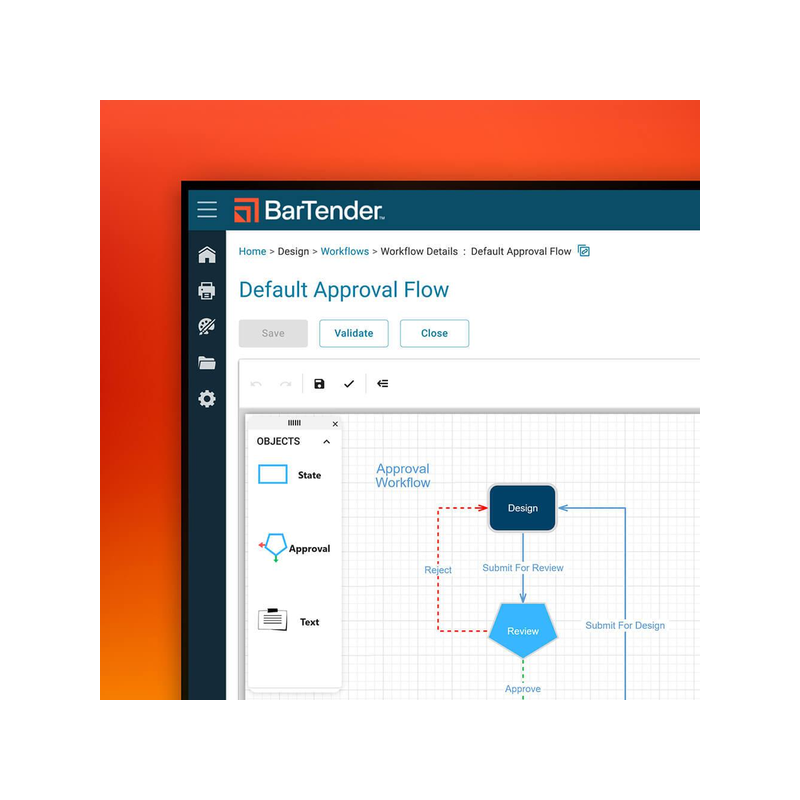
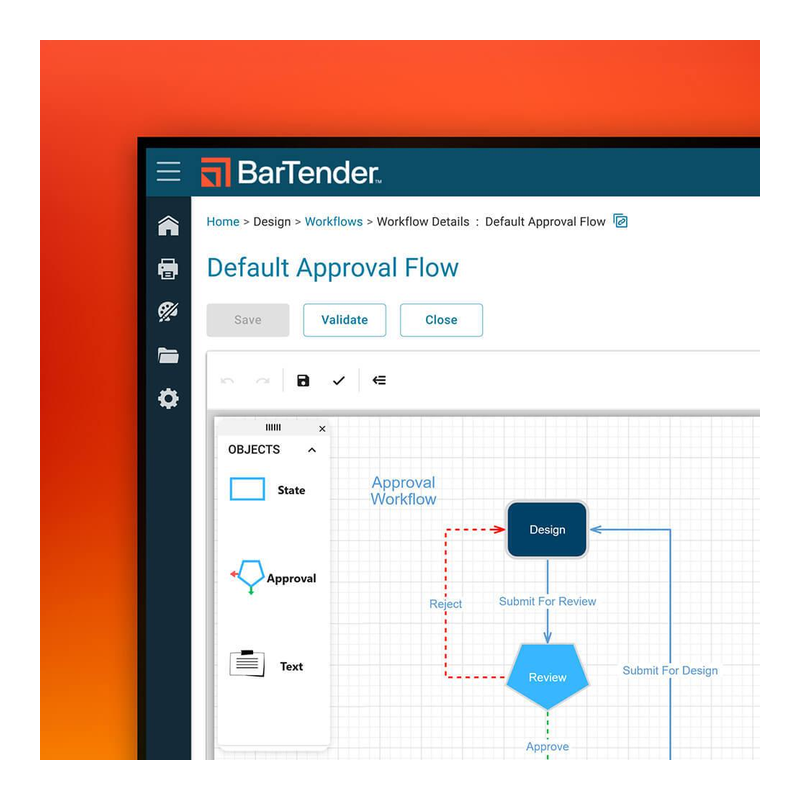
Audyt S oprogramowania: fakty kart BarTender i Loftware, tabela porównawcza, zdjęcia
- FAQ odnowienia BarTender: wcześniejsze wypowiedzenie w EOG z obowiązkiem opłat do końca okresu (Data Act Statement)
- usunięte niepotwierdzone twierdzenia: wyrównanie okresu dodatkowych drukarek, okres opcji NSCEDB001M, użytkownicy bez limitu w Loftware, Cloud Enterprise „od 10”
- uprawnienia: Professional — użytkownicy i grupy, Enterprise — zarządzanie według ról
- Loftware: porty 443 i 8080 oraz loftware.io, 4500+ sterowników, Business bez „wielu lokalizacji”
- /programy-do-etykiet: filtry jak na podkategoriach z treścią, dzięki czemu widać tabelę porównawczą; poprawki poradnika wyboru
- zdjęcia BarTender 720 px w polu 800 px (kafel jak CardStudio i Magicard HUB)
- llms.txt: karty BarTender; raport docs/catalog/oprogramowanie-2026-10-25/audyt-S.md

diff --git a/src/data/software-category.ts b/src/data/software-category.ts
@@ -45,41 +45,41 @@ export const labelSoftwareContent: SubcategoryRichContent = {
   },
   definition: {
     heading: 'Czym różnią się BarTender i Loftware Cloud?',
-    content: 'BarTender firmy Seagull Software ma cztery edycje instalowane w Windows: Starter, Professional, Automation i Enterprise. Osobno działa BarTender Cloud, który otwiera się w przeglądarce. Edycje Windows wymagają 64-bitowego systemu Windows 10, Windows 11 albo Windows Server 2016–2025. Wszystkie licencje BarTender są sprzedawane w umowach rocznych.\n\nLoftware Cloud, dawniej NiceLabel, działa w modelu oprogramowania jako usługi. Pliki etykiet, użytkownicy i drukarki są zapisane w panelu Loftware Control Center w chmurze. Etykiety projektuje się w przeglądarce w Web Designer albo w programie Desktop Designer w Windows. Komputery muszą mieć stały dostęp do internetu.',
+    content: 'BarTender firmy Seagull Software ma cztery edycje instalowane w Windows: Starter, Professional, Automation i Enterprise. Osobno działa BarTender Cloud, który otwiera się w przeglądarce. Edycje Windows wymagają 64-bitowego systemu Windows 10, Windows 11 albo Windows Server 2016–2025. Licencje BarTender są subskrypcjami na 1, 3 lub 5 lat.\n\nLoftware Cloud, dawniej NiceLabel, działa w modelu oprogramowania jako usługi. Pliki etykiet, użytkownicy i drukarki są zapisane w panelu Loftware Control Center w chmurze. Etykiety projektuje się w przeglądarce w Web Designer albo w programie Desktop Designer w Windows. Komputery muszą mieć stały dostęp do internetu.',
   },
   comparisonTable: {
     heading: 'Porównanie programów do etykiet',
-    intro: 'Główne różnice edycji według producentów. Warianty licencji, liczby drukarek i numery PN są podane na kartach produktów.',
+    intro: 'Główne różnice między edycjami. Warianty licencji, liczby drukarek i numery PN są podane na kartach produktów.',
     columns: ['Gdzie działa', 'Licencja', 'Formularze i integracje'],
     rows: [
       { model: 'BarTender Starter', href: '/produkt/bartender-starter', role: 'Podstawowe projektowanie i druk', cells: ['Windows', 'Na stanowisko: 1 użytkownik, 1 komputer, drukarki bez limitu', 'Dane z Excela i plików CSV; bez formularzy i RFID'] },
       { model: 'BarTender Professional', href: '/produkt/bartender-professional', role: 'Szablony Intelligent Templates i RFID', cells: ['Windows', 'Na stanowisko albo na liczbę drukarek', 'Formularze wprowadzania danych, ponad 20 źródeł danych, kodowanie RFID'] },
       { model: 'BarTender Automation', href: '/produkt/bartender-automation', role: 'Druk uruchamiany przez inne systemy', cells: ['Windows', 'Na liczbę drukarek, użytkownicy bez limitu', 'Integracje REST API, File Drop, e-mail, TCP/IP; .NET SDK'] },
       { model: 'BarTender Enterprise', href: '/produkt/bartender-enterprise', role: 'Kontrola wersji i audyt', cells: ['Windows', 'Na liczbę drukarek, użytkownicy bez limitu', 'Funkcje Automation oraz repozytorium dokumentów, wersje, ścieżka audytu, podpisy elektroniczne'] },
-      { model: 'BarTender Cloud', href: '/produkt/bartender-cloud', role: 'Projektowanie i druk w przeglądarce', cells: ['Przeglądarka', 'Na liczbę drukarek, użytkownicy bez limitu', 'Formularze; w wersjach Automation i Enterprise integracje REST API i File Drop'] },
+      { model: 'BarTender Cloud', href: '/produkt/bartender-cloud', role: 'Projektowanie i druk w przeglądarce', cells: ['Przeglądarka', 'Na liczbę drukarek, użytkownicy bez limitu', 'Formularze wprowadzania danych; w planach Automation i Enterprise integracje REST API i File Drop'] },
       { model: 'Loftware Cloud Designer', href: '/produkt/loftware-cloud-designer', role: 'Projektowanie i druk z chmury', cells: ['Przeglądarka i Windows', 'Miejsca drukarek: 1–10, komputery bez limitu w domenie', 'Formularze druku; bez integracji'] },
       { model: 'Loftware Cloud Essentials', href: '/produkt/loftware-cloud-essentials', role: 'Formularze dla operatorów', cells: ['Przeglądarka i Windows', 'Miejsca drukarek: 2–20', 'Designer PowerForms, Web Client, jednokierunkowa integracja z systemami lokalnymi'] },
-      { model: 'Loftware Cloud Business', href: '/produkt/loftware-cloud-business', role: 'Druk w wielu lokalizacjach, na zapytanie', cells: ['Przeglądarka i Windows', 'Small do 3 drukarek, Large do 50', 'Integracje z systemami w chmurze i lokalnymi, Cloud API, drukarki chmurowe'] },
+      { model: 'Loftware Cloud Business', href: '/produkt/loftware-cloud-business', role: 'Integracje i zarządzanie drukarkami, na zapytanie', cells: ['Przeglądarka i Windows', 'Small do 3 drukarek, Large do 50', 'Integracje z systemami w chmurze i lokalnymi, Cloud API, drukarki chmurowe'] },
     ],
     note: 'BarTender Workstation, czyli licencja na stanowisko, jest dostępna tylko w edycjach Starter i Professional. W Loftware Cloud każda drukarka, także wirtualna PDF, zajmuje jedno miejsce w licencji.',
   },
   buyingGuide: {
     heading: 'Jak wybrać program do etykiet?',
     items: [
-      'Liczba drukarek i użytkowników — jeden pracownik przy jednym komputerze może mieć licencję BarTender na stanowisko, z dowolną liczbą drukarek. Gdy etykiety drukuje kilka osób z różnych komputerów, potrzebna jest licencja na liczbę drukarek: BarTender Professional, Automation, Enterprise albo Loftware Cloud.',
+      'Liczba drukarek i użytkowników — jeden pracownik przy jednym komputerze może mieć licencję BarTender na stanowisko, z dowolną liczbą drukarek. Gdy etykiety drukuje kilka osób z różnych komputerów, potrzebna jest licencja na liczbę drukarek: BarTender Professional, Automation, Enterprise, BarTender Cloud albo Loftware Cloud.',
       'Program w firmie czy w chmurze — BarTender Starter, Professional, Automation i Enterprise instaluje się w Windows. BarTender Cloud i Loftware Cloud przechowują szablony w chmurze, a projektuje się w nich w przeglądarce.',
-      'Formularze dla operatorów — jeśli operator ma tylko wpisać dane i wydrukować etykietę, potrzebne są formularze: BarTender Professional albo Loftware Cloud Essentials.',
-      'Integracja z systemem firmy — druk uruchamiany przez system ERP lub WMS wymaga BarTender Automation lub Enterprise, planów BarTender Cloud Automation lub Enterprise albo Loftware Cloud Business.',
+      'Formularze dla operatorów — jeśli operator ma tylko wpisać dane i wydrukować etykietę, potrzebne są formularze. BarTender ma je od edycji Professional i we wszystkich planach BarTender Cloud. Loftware Cloud ma proste formularze druku w każdej edycji, a kreator aplikacji Designer PowerForms od edycji Essentials.',
+      'Integracja z systemem firmy — druk uruchamiany przez system ERP lub WMS wymaga BarTender Automation lub Enterprise, planów BarTender Cloud Automation lub Enterprise albo Loftware Cloud Business. Loftware Cloud Essentials przekazuje dane z systemów lokalnych tylko w jednym kierunku.',
       'Kontrola zmian — wersje dokumentów i ścieżkę audytu ma BarTender Enterprise, a kontrolę wersji także BarTender Cloud. W Loftware Cloud proces zatwierdzania zmian jest dostępny od edycji Essentials.',
     ],
   },
   expertAuthority: 'TAKMA od 2002 roku dostarcza firmom drukarki etykiet i materiały do nich. Przy wyborze programu pytamy o liczbę drukarek i stanowisk, źródła danych, potrzebę formularzy oraz system, z którego mają przychodzić dane do druku. Na tej podstawie dobieramy edycję i liczbę drukarek w licencji.',
-  technicalDeepDive: 'BarTender w licencji na drukarki kontroluje liczbę używanych drukarek przez usługę licencji BarTender Licensing Service. Usługę instaluje się co najmniej na jednym komputerze w sieci. Drukarki mogą być podłączone lokalnie albo pracować w sieci LAN lub WAN. Licencja na stanowisko obejmuje jednego użytkownika i jeden komputer, a liczba drukarek nie jest ograniczona. Każda nowa licencja BarTender obejmuje co najmniej rok standardowego wsparcia z aktualizacjami. Wyjątkiem jest BarTender Cloud Essentials, który ma poziom wsparcia Essential. BarTender korzysta ze sterowników Drivers by Seagull, których producent udostępnia ponad 12 000.\n\nLoftware Cloud liczy miejsca drukarek. Każda drukarka fizyczna lub wirtualna, na którą program wysyła wydruk, zajmuje jedno miejsce. Program można uruchomić na dowolnej liczbie komputerów w jednej domenie, z jednym kluczem licencji. Loftware udostępnia bezpłatne sterowniki Windows do ponad 4500 modeli drukarek. Program Desktop Designer wymaga Windows 11 lub Windows Server 2016–2025, 8 GB RAM, 20 GB miejsca na dysku i .NET Framework 4.7.2.\n\nObie firmy dostarczają licencje elektronicznie. BarTender wysyła kod, który w portalu klienta wymienia się na klucz produktu. Loftware wysyła e-mailem zaproszenie do konta Loftware Cloud. Do zamówienia potrzebne są nazwa firmy licencjobiorcy i adres e-mail użytkownika licencji.',
+  technicalDeepDive: 'BarTender w licencji na drukarki kontroluje liczbę używanych drukarek przez usługę licencji BarTender Licensing Service. Usługę instaluje się co najmniej na jednym komputerze w sieci. Drukarki mogą być podłączone lokalnie albo pracować w sieci LAN lub WAN. Licencja na stanowisko obejmuje jednego użytkownika i jeden komputer, a liczba drukarek nie jest ograniczona. Każda nowa licencja BarTender obejmuje co najmniej rok standardowego wsparcia z aktualizacjami. Wyjątkiem jest BarTender Cloud Essentials, który ma poziom wsparcia Essential. BarTender korzysta ze sterowników Drivers by Seagull, których producent udostępnia ponad 12 000.\n\nLoftware Cloud liczy miejsca drukarek. Każda drukarka fizyczna lub wirtualna, na którą program wysyła wydruk, zajmuje jedno miejsce. Program można uruchomić na dowolnej liczbie komputerów w jednej domenie, z jednym kluczem licencji. Loftware udostępnia ponad 4500 bezpłatnych sterowników drukarek dla Windows. Program Desktop Designer wymaga Windows 11 lub Windows Server 2016–2025, 8 GB RAM, 20 GB miejsca na dysku i .NET Framework 4.7.2.\n\nObie firmy dostarczają licencje elektronicznie. BarTender wysyła kod, który w portalu klienta wymienia się na klucz produktu. Loftware wysyła e-mailem zaproszenie do konta Loftware Cloud. Do zamówienia potrzebne są nazwa firmy licencjobiorcy i adres e-mail użytkownika licencji.',
   useCases: [
     { title: 'Etykiety wysyłkowe i logistyczne', description: 'Druk etykiet z danymi z arkusza lub bazy, z kodami 1D i 2D, na drukarkach w magazynie i przy pakowaniu.' },
     { title: 'Etykiety produktów na produkcji', description: 'Formularz dla operatora linii: wpisanie danych partii i druk etykiety bez otwierania szablonu.' },
     { title: 'Druk z systemu firmy', description: 'Etykiety drukowane automatycznie po zdarzeniu w systemie ERP lub WMS, przez integrację lub API programu.' },
-    { title: 'Kodowanie RFID', description: 'Zapis danych w wkładce RFID podczas druku na drukarce RFID. W BarTender od edycji Professional.' },
+    { title: 'Kodowanie RFID', description: 'Zapis danych we wkładce RFID podczas druku na drukarce RFID. W BarTender od edycji Professional i we wszystkich planach BarTender Cloud.' },
   ],
   uniqueInsights: {
     heading: 'Na co zwrócić uwagę przy licencji',
@@ -101,7 +101,7 @@ export const labelSoftwareContent: SubcategoryRichContent = {
     },
     {
       question: 'Czy można dokupić drukarki do istniejącej licencji?',
-      answer: 'Tak. Do licencji na drukarki dokupuje się kolejne drukarki, a pozycje te są dostępne na kartach produktów. Przedłużenie subskrypcji i zmianę edycji wyceniamy na zapytanie.',
+      answer: 'Tak. Do licencji na drukarki dokupuje się kolejne drukarki. Pozycje „dodatkowa drukarka” są na kartach edycji, które je mają. Przedłużenie subskrypcji i zmianę edycji wyceniamy na zapytanie.',
     },
     {
       question: 'Czy program do etykiet obsłuży drukarkę Zebra, Honeywell lub TSC?',

diff --git a/src/data/loftware-products.ts b/src/data/loftware-products.ts
@@ -18,11 +18,11 @@ const designer: Product = {
   shortDescription: 'Loftware Cloud Designer (NiceLabel) — roczna subskrypcja programu do etykiet w chmurze: Web Designer w przeglądarce, Desktop Designer dla Windows, od 1 do 10 drukarek.',
   seoTitle: 'Loftware Cloud Designer — program do etykiet w chmurze',
   seoDescription: 'Loftware Cloud Designer: subskrypcja programu do projektowania i drukowania etykiet w chmurze, 1–10 drukarek, Web Designer i Desktop Designer. Program do projektowania etykiet Loftware, NiceLabel Cloud Designer, licencja Loftware Cloud Designer, subskrypcja NiceLabel. PN: NSCDBA001Y, NSCDAD001Y.',
-  description: `Loftware Cloud Designer to roczna subskrypcja programu do projektowania i drukowania etykiet w chmurze Loftware Cloud. Edycja jest przeznaczona dla małych i średnich firm, które drukują etykiety na kilku drukarkach.
+  description: `Loftware Cloud Designer to roczna subskrypcja Loftware Cloud, w której etykiety projektuje się i drukuje z chmury. Edycja jest przeznaczona dla małych i średnich firm, które drukują etykiety na kilku drukarkach.
 
 Pliki etykiet są zapisane w Loftware Control Center, czyli w panelu otwieranym w przeglądarce. Etykietę projektuje się w Web Designer w przeglądarce albo w programie Loftware Desktop Designer na komputerze z Windows. Ten sam plik otwiera się w obu edytorach. Gotowe etykiety drukuje się także z aplikacji Loftware Print, bez otwierania projektu. Druk zdalny działa na każdej drukarce podłączonej do komputera z programem Desktop Designer.
 
-Licencja obejmuje miejsca drukarek. Każda drukarka fizyczna lub wirtualna, np. PDF albo XPS, zajmuje jedno miejsce. Liczba komputerów i użytkowników w jednej domenie nie jest ograniczona. Subskrypcja NSCDBA001Y obejmuje jedną drukarkę, a każde rozszerzenie NSCDAD001Y dodaje kolejną, łącznie do 10.
+Licencja obejmuje miejsca drukarek. Każda drukarka fizyczna lub wirtualna, np. PDF albo XPS, zajmuje jedno miejsce. Liczba komputerów w jednej domenie nie jest ograniczona, a wszystkie używają jednego klucza licencji. Subskrypcja NSCDBA001Y obejmuje jedną drukarkę, a każde rozszerzenie NSCDAD001Y dodaje kolejną, łącznie do 10.
 
 Konto ma 1 GB miejsca na etykiety i jedno środowisko produkcyjne. Dane do etykiet program pobiera m.in. z Excela, plików tekstowych, SQL Server, Oracle, MySQL i Google Sheets. Po zakupie licencjobiorca otrzymuje zaproszenie e-mailem i loguje się kontem Microsoft albo Google.`,
   categoryId: 'oprogramowanie',
@@ -63,7 +63,7 @@ Konto ma 1 GB miejsca na etykiety i jedno środowisko produkcyjne. Dane do etyki
     { name: 'Edycja', value: 'Loftware Cloud Designer' },
     { name: 'Model licencji', value: 'Subskrypcja na 1 rok, liczona miejscami drukarek' },
     { name: 'Drukarki', value: '1 w subskrypcji podstawowej, rozszerzenia po 1 drukarce, łącznie do 10' },
-    { name: 'Komputery i użytkownicy', value: 'Bez limitu w jednej domenie, jeden klucz licencji dla wszystkich komputerów' },
+    { name: 'Komputery', value: 'Bez limitu w jednej domenie, jeden klucz licencji dla wszystkich komputerów' },
     { name: 'Składniki', value: 'Loftware Control Center (chmura), Web Designer, Loftware Desktop Designer, Loftware Print; formularze druku w chmurze i na komputerze' },
     { name: 'Loftware Automation', value: 'Tylko wersja próbna instalowana z Desktop Designer; dalsze użycie wymaga wyższej edycji' },
     { name: 'Miejsce na etykiety', value: '1 GB w chmurze' },
@@ -100,7 +100,7 @@ Konto ma 1 GB miejsca na etykiety i jedno środowisko produkcyjne. Dane do etyki
     },
     {
       question: 'Czy Loftware Cloud Designer działa bez internetu?',
-      answer: 'Nie. Komputery z programem Desktop Designer muszą mieć połączenie z Loftware Control Center. Zapora sieciowa musi przepuszczać ruch wychodzący do adresu konta w domenie onnicelabel.com na porcie 443.',
+      answer: 'Nie. Komputery z programem Desktop Designer muszą mieć połączenie z Loftware Control Center. Zapora sieciowa musi przepuszczać ruch wychodzący do adresu konta w domenie onnicelabel.com na portach 443 i 8080. W edycji Cloud Designer potrzebny jest też dostęp do adresu konta w domenie loftware.io.',
     },
     {
       question: 'Jakie wymagania ma komputer z Desktop Designer?',
@@ -108,7 +108,7 @@ Konto ma 1 GB miejsca na etykiety i jedno środowisko produkcyjne. Dane do etyki
     },
     {
       question: 'Z jakimi drukarkami współpracuje program?',
-      answer: 'Loftware udostępnia bezpłatne sterowniki Windows do ponad 4500 modeli drukarek, w tym Zebra, Honeywell, TSC, SATO, Citizen, Brother, Epson, BIXOLON, Brady i Godex. Producent zaleca sterowniki Loftware w wersji 5 lub nowszej. Sterowniki są dostępne na stronie drivers.loftware.com.',
+      answer: 'Loftware udostępnia ponad 4500 bezpłatnych sterowników drukarek dla Windows, m.in. do drukarek BIXOLON, Brady, Brother, Citizen, Epson, Godex, Honeywell, SATO, TSC i Zebra. Producent zaleca sterowniki Loftware w wersji 5 lub nowszej. Sterowniki są dostępne na stronie drivers.loftware.com.',
     },
     {
       question: 'Czy Designer automatycznie drukuje etykiety z systemu firmy?',
@@ -153,7 +153,7 @@ Nowe i zmienione dokumenty przechodzą przez jeden domyślny proces zatwierdzani
   isNew: true,
   isBestseller: false,
   variantAttributeTooltips: {
-    'Licencja': 'Rodzaj pozycji w subskrypcji Loftware Cloud Essentials na 1 rok.\n\nSubskrypcja podstawowa — konto Essentials z formularzami Designer PowerForms i Web Client.\n\nDodatkowa drukarka i opcja — rozszerzają istniejącą subskrypcję Essentials.',
+    'Licencja': 'Rodzaj pozycji w ofercie Loftware Cloud Essentials.\n\nSubskrypcja podstawowa — roczne konto Essentials z formularzami Designer PowerForms i Web Client.\n\nDodatkowa drukarka i opcja — rozszerzają istniejącą subskrypcję Essentials.',
     'Drukarki': 'Liczba miejsc drukarek w pozycji.\n\nSubskrypcja podstawowa obejmuje do 2 drukarek, a każde rozszerzenie dodaje 1.\n\nEssentials obsługuje łącznie do 20 drukarek.',
     'Dodatek': 'Opcja dokupowana do subskrypcji Essentials.\n\nBaza SQL w chmurze 1 GB — miejsce na własne dane do etykiet w Loftware Cloud.\n\nHistoria druku 1 rok — dłuższy okres przechowywania historii zamiast standardowych 3 miesięcy.',
   },
@@ -174,7 +174,7 @@ Nowe i zmienione dokumenty przechodzą przez jeden domyślny proces zatwierdzani
     },
     {
       partNumber: 'NSCEDB001M',
-      name: 'Loftware Cloud Essentials — baza SQL w chmurze 1 GB, 1 rok',
+      name: 'Loftware Cloud Essentials — baza SQL w chmurze 1 GB',
       attributes: { 'Licencja': 'Opcja', 'Dodatek': 'Baza SQL w chmurze 1 GB' },
       priceFrom: 2463.75,
       availability: 'available',
@@ -192,7 +192,7 @@ Nowe i zmienione dokumenty przechodzą przez jeden domyślny proces zatwierdzani
     { name: 'Edycja', value: 'Loftware Cloud Essentials' },
     { name: 'Model licencji', value: 'Subskrypcja na 1 rok, liczona miejscami drukarek' },
     { name: 'Drukarki', value: 'Do 2 w subskrypcji podstawowej, rozszerzenia po 1 drukarce, łącznie do 20' },
-    { name: 'Komputery i użytkownicy', value: 'Bez limitu w jednej domenie, jeden klucz licencji' },
+    { name: 'Komputery', value: 'Bez limitu w jednej domenie, jeden klucz licencji' },
     { name: 'Projektowanie', value: 'Web Designer w przeglądarce i Loftware Desktop Designer w Windows' },
     { name: 'Formularze', value: 'Designer PowerForms (kreator aplikacji); uruchamianie w Loftware Print lub w przeglądarce przez Loftware Web Client' },
     { name: 'Druk przez przeglądarkę', value: 'Loftware Web Printing z Loftware Web Client' },
@@ -235,7 +235,7 @@ Nowe i zmienione dokumenty przechodzą przez jeden domyślny proces zatwierdzani
     },
     {
       question: 'Jak przebiega aktywacja po zakupie?',
-      answer: 'W zamówieniu podaje się nazwę firmy licencjobiorcy i e-mail osoby zarządzającej kontem. Na ten adres Loftware wysyła zaproszenie do konta Loftware Cloud. Logowanie odbywa się kontem Microsoft albo Google, a dalsze osoby dodaje się w Control Center.',
+      answer: 'Zamówienie zawiera nazwę firmy licencjobiorcy i e-mail osoby zarządzającej kontem. Na ten adres Loftware wysyła zaproszenie do konta Loftware Cloud. Logowanie odbywa się kontem Microsoft albo Google, a dalsze osoby dodaje się w Control Center.',
     },
     {
       question: 'Czy stanowisko operatora potrzebuje programu Desktop Designer?',
@@ -255,10 +255,10 @@ const business: Product = {
   id: 'loftware-cloud-business',
   slug: 'loftware-cloud-business',
   name: 'Loftware Cloud Business',
-  shortDescription: 'Loftware Cloud Business (NiceLabel) — subskrypcja do druku etykiet w wielu lokalizacjach: drukarki chmurowe, zarządzanie drukarkami, Cloud API. Wersje Small i Large, cena na zapytanie.',
+  shortDescription: 'Loftware Cloud Business (NiceLabel) — subskrypcja do druku etykiet na wielu drukarkach: drukarki chmurowe, zarządzanie drukarkami, Cloud API. Wersje Small i Large, cena na zapytanie.',
   seoTitle: 'Loftware Cloud Business — system etykiet w chmurze, na zapytanie',
   seoDescription: 'Loftware Cloud Business: system do zarządzania drukiem etykiet w chmurze, drukarki chmurowe, analityka druku, Cloud API i integracje z systemami firmy. Wersje Small i Large. NiceLabel Cloud Business, licencja Loftware Cloud Business. PN: NSCBSM001M, NSCBSA001M, NSCBLX001M.',
-  description: `Loftware Cloud Business to edycja Loftware Cloud dla firm, które drukują etykiety na wielu drukarkach i łączą druk z systemami biznesowymi w chmurze oraz w siedzibie firmy. Edycja ma dwie wielkości. Small (NSCBSM001M) obejmuje do 3 drukarek, a pozycja NSCBSA001M dodaje kolejne pojedynczo. Large (NSCBLX001M) obejmuje do 50 drukarek.
+  description: `Loftware Cloud Business to edycja Loftware Cloud przeznaczona do druku etykiet na wielu drukarkach, połączonego z systemami biznesowymi w chmurze oraz w siedzibie firmy. Edycja ma dwie wielkości. Small (NSCBSM001M) obejmuje do 3 drukarek, a pozycja NSCBSA001M dodaje kolejne pojedynczo. Large (NSCBLX001M) obejmuje do 50 drukarek.
 
 Business zawiera narzędzia edycji Essentials oraz funkcje do zarządzania drukiem w całej firmie. Drukarki chmurowe drukują bez sterownika i bez komputera pośredniczącego. W Control Center zarządza się drukarkami i przegląda analitykę druku. Cloud API udostępnia funkcje Loftware Cloud innym aplikacjom firmy. Integracje obejmują systemy w chmurze i systemy lokalne oraz synchronizację danych.
 
@@ -327,7 +327,7 @@ Cenę ustalamy po rozmowie o liczbie drukarek, lokalizacjach i potrzebnych integ
     { name: 'Dostarczenie licencji', value: 'Zaproszenie e-mailem do konta Loftware Cloud' },
   ],
   applications: [
-    'Centralny druk etykiet w kilku zakładach i magazynach',
+    'Druk etykiet na wielu drukarkach zarządzanych z jednego Control Center',
     'Druk z systemów ERP przez integracje i Cloud API',
     'Nadzór nad flotą drukarek i analityka druku',
     'Kontrolowane wdrażanie zmian w szablonach',

diff --git a/src/data/category-filters.ts b/src/data/category-filters.ts
@@ -2260,3 +2260,20 @@ categoryFilters['terminale-dla-sluzby-zdrowia'] = [
     { value: 'W obudowie terminala', slugs: ['zebra-hc20', 'zebra-hc25', 'zebra-hc50', 'zebra-hc55', 'cipherlab-rs38h'] },
   ] },
 ]
+
+// Programy do etykiet (BarTender, Loftware Cloud): filtry po slugach, bo karty licencji nie mają wspólnych wierszy
+// specyfikacji. Z filtrami strona ma ten sam układ co pozostałe podkategorie z treścią rozszerzoną, w tym tabelę porównawczą.
+categoryFilters['programy-do-etykiet'] = [
+  { specKey: 'producent', label: 'Producent', derived: [
+    { value: 'BarTender', manufacturer: 'bartender' },
+    { value: 'Loftware', manufacturer: 'loftware' },
+  ] },
+  { specKey: 'miejsce', label: 'Gdzie działa', description: 'Gdzie pracuje program.\n• Windows — program instalowany na komputerach firmy\n• Przeglądarka — projektowanie i druk z chmury; Loftware Cloud ma też Desktop Designer dla Windows', derived: [
+    { value: 'Windows', slugs: ['bartender-starter', 'bartender-professional', 'bartender-automation', 'bartender-enterprise', 'loftware-cloud-designer', 'loftware-cloud-essentials', 'loftware-cloud-business'] },
+    { value: 'Przeglądarka', slugs: ['bartender-cloud', 'loftware-cloud-designer', 'loftware-cloud-essentials', 'loftware-cloud-business'] },
+  ] },
+  { specKey: 'licencja', label: 'Licencja', description: 'Sposób liczenia licencji.\n• Na stanowisko — BarTender Workstation: 1 użytkownik na 1 komputerze, drukarki bez limitu\n• Na liczbę drukarek — limit drukarek, użytkownicy lub komputery bez limitu', derived: [
+    { value: 'Na stanowisko', slugs: ['bartender-starter', 'bartender-professional'] },
+    { value: 'Na liczbę drukarek', slugs: ['bartender-professional', 'bartender-automation', 'bartender-enterprise', 'bartender-cloud', 'loftware-cloud-designer', 'loftware-cloud-essentials', 'loftware-cloud-business'] },
+  ] },
+]

diff --git a/docs/catalog/oprogramowanie-2026-10-25/audyt-S.md b/docs/catalog/oprogramowanie-2026-10-25/audyt-S.md
@@ -1,0 +1,57 @@
+# Audyt S — treść kart i stron oprogramowania (25.10.2026)
+
+Gałąź `audyt/oprogramowanie-s` z `integracja/oprogramowanie` (23c1387b). Zakres: 5 kart BarTender, 3 karty Loftware, `/programy-do-etykiet`, `/programy-do-kart`, `/oprogramowanie`, marki `bartender` i `loftware`, `Navbar.tsx`, `public/llms.txt`, podkategoria `zebra-cardstudio` i `magicard-hub`. Teksty L1/L2 sprawdzone od nowa, zdanie po zdaniu.
+
+## Źródła użyte w audycie (25.10.2026)
+
+- BarTender: pricing i macierz funkcji (`soft/src/bartender/product_pricing.html`, `pricing_matrix.txt`, przypisy z `/modals/*`), Technical Specifications, strona Cloud, What's New in BarTender 12, PDF-y: Printer-Based Licensing (02.2025), Activation FAQ, Getting Started with BarTender Cloud, System Security, What's New 12.0/12.1; Consolidated EULA (pkt 7.2, 7.3, 7.5); **EU Data Act Transparency Statement** (`bartendersoftware.com/legal/legal-eu-data-act-transparency-statement`, kopia `soft/src/bartender/audyt-s/data-act.html`); artykuł pomocy 26784459646231 „How to Obtain Your Product Key Code” (pobrany przez API Zendesk, bo strona daje 403).
+- Opisy SKU BarTender: channelonline (`seagull_skus.tsv`) i barcodefactory (`dyst2/barcodefactory/*.html`). Barcodesinc — strony zablokowane (Cloudflare), nieużyte.
+- Loftware: pomoc Loftware Cloud 25.9 (About Cloud Designer, How Licensing Works, System Requirements, Product Range Rebranding), arkusz „Edition comparison sheet” (04.2025, obejrzany jako obraz — znaczniki w kolumnach), drivers.loftware.com.
+- Opisy SKU Loftware: channelonline, omegabrand, rfid.it, advanced-automationinc.com (NSCDAD001Y: „Annual subscription of 12 months”, 1 printer), wyszukiwanie dystrybutorów dla NSCEDB001M (sprzeczne: miesięcznie / 1 rok).
+- Ceny: publiczne `https://www.takma.com.pl/api/stock`, 2 wywołania po 50 PN, drugie rozstrzyga (`soft/api-audyt-s/call1.json`, `call2.json`; tylko pola publiczne).
+
+## Ustalenia i poprawki
+
+| ID | Plik / karta | Było | Jest | Źródło / uzasadnienie | Kategoria |
+|---|---|---|---|---|---|
+| S1 | `/programy-do-etykiet` (`category-filters.ts`) | Tabela porównawcza z `software-category.ts` nie była wyświetlana: strona używała układu bez filtrów, a w nim `SubcategoryPage` nie renderuje `comparisonTable` | Dodane filtry `categoryFilters['programy-do-etykiet']` (Producent, Gdzie działa, Licencja). Strona ma teraz ten sam układ co `/skanery-dla-sluzby-zdrowia`, `/terminale-dla-sluzby-zdrowia` i `/dyspensery-etykiet` (wzór L2), a tabela jest widoczna | Wszystkie podkategorie z `comparisonTable` mają filtry; zrzut `shots-audyt-S/programy-do-etykiet-1440-full.png` | Wygląd / błąd |
+| S2 | BarTender Starter, Professional, Automation, Cloud — FAQ o odnowieniu | „Klienci z EOG mogą wypowiedzieć subskrypcję wcześniej, z 60-dniowym wyprzedzeniem” | Dopisany warunek: opłaty za pozostałą część okresu pozostają należne (4 różne sformułowania) | EULA 7.3 odsyła do Data Act Statement: „you will be liable to pay all of our fees… relating to the remainder of the then-current term” | Fakt (warunek) |
+| S3 | Professional — FAQ „Jak dokupić drukarkę” | „okres dopasowuje się do subskrypcji licencji głównej” | „rozszerza istniejącą licencję… i bez niej nie działa” | Wyrównanie okresu tylko w 1 źródle (channelonline); barcodefactory: „Reqs App”; producent: licencja aplikacji + licencja drukarki (Technical Specifications) | Fakt niepotwierdzony |
+| S4 | Automation — FAQ „Co zrobić, gdy liczba drukarek wzrośnie” | „Okres dodatkowej drukarki jest wyrównany do subskrypcji licencji głównej” | „Pozycja działa tylko razem z posiadaną licencją Automation” | BTA-PRT-SUB-1YR w channelonline bez „Align”; barcodefactory „Reqs App” | Fakt niepotwierdzony |
+| S5 | Enterprise — tooltip „Drukarki” | „+1 … w okresie licencji głównej” | „+1 … bez niej nie działa” | jw. (1 źródło) | Fakt niepotwierdzony |
+| S6 | Professional — opis i specyfikacja „Bezpieczeństwo”; Enterprise — opis, specyfikacja, FAQ | Pro: „uprawnienia oparte na rolach”; Enterprise: „dodaje… uprawnienia oparte na rolach” (sprzeczność między kartami) | Pro: „uprawnienia użytkowników i grup”; Enterprise: „zarządzanie uprawnieniami według ról” | Macierz: „Role-based security” od Professional, „Role-based permission management” tylko Enterprise; System Security PDF: Professional — „user and group permissions” | Fakt / spójność |
+| S7 | Enterprise — opis (147 słów), specyfikacja | brak | „Dziennik audytu… liczba zapisów nie jest ograniczona”; opis 155 słów | Pricing: „Complete audit trails & unlimited logging” | Długość opisu |
+| S8 | Professional — tooltip „Drukarki” | „Liczba drukarek, na których licencja pozwala drukować w tym samym czasie”; brak wyjaśnienia wartości „Bez limitu” | Opisane „Bez limitu” (Workstation) i 2/5/10 z regułą 7 dni | Printer-Based Licensing: licznik drukarek używanych w ostatnich 7 dniach, nie „w tym samym czasie” | Tooltip |
+| S9 | Starter — tooltip „Okres” | „W całym okresie obowiązuje standardowe wsparcie” | „Subskrypcja obejmuje standardowe wsparcie producenta z aktualizacjami” | Pricing: Starter „Includes 1 year”; SKU BTS w channelonline bez MSA — długość wsparcia dla 3/5 lat niepotwierdzona | Fakt niepotwierdzony |
+| S10 | Cloud — specyfikacja „Drukarki” | „Enterprise: od 10” | „Enterprise: według oferty” | Lista SKU: BTC-5-ENT-SUB-1YR (5 drukarek) | Fakt |
+| S11 | Cloud — specyfikacja „Model licencji”, FAQ o liczbie drukarek | „Roczna subskrypcja”; „1, 2 lub 5 w Essentials” jako cecha produktu | „w sklepie plany roczne”; „W sklepie są plany…” | Pricing: plany 1, 3 i 5 lat; SKU BTC-10-AUT itd. istnieją | Precyzja |
+| S12 | Cloud — FAQ chmura vs lokalnie | „mogą drukować bez stałego połączenia z internetem” | Dopisane: usługa licencji subskrypcyjnej musi okresowo łączyć się z serwerem aktywacji | Activation FAQ: „subscription… must contact the activation server periodically” | Fakt (warunek) |
+| S13 | Loftware Essentials — wariant NSCEDB001M, tooltip „Licencja” | „baza SQL w chmurze 1 GB, 1 rok”; „pozycja w subskrypcji… na 1 rok” | bez okresu przy opcji; „roczne konto Essentials” tylko przy subskrypcji podstawowej | Okres NSCEDB001M sprzeczny u dystrybutorów (miesięcznie / 1 rok); NSCEBS001M i NSCEAO001M — rok w 2 źródłach | Okres SKU …M |
+| S14 | Loftware Designer i Essentials — opis, specyfikacja „Komputery i użytkownicy” | „Liczba komputerów i użytkowników w jednej domenie nie jest ograniczona” | tylko komputery; „wszystkie używają jednego klucza licencji” | How Licensing Works mówi o komputerach i instancjach, nie o użytkownikach | Fakt niepotwierdzony |
+| S15 | Loftware Designer — FAQ „bez internetu” | „onnicelabel.com na porcie 443” | porty 443 i 8080 oraz adres konta w domenie loftware.io | System Requirements: 8080 dla lokalnych klientów, eu/us/ap-app.loftware.io dla Cloud Designer | Fakt niepełny |
+| S16 | Loftware Designer — FAQ sterowniki; kategoria — część techniczna | „sterowniki do ponad 4500 modeli drukarek” | „ponad 4500 bezpłatnych sterowników drukarek” | drivers.loftware.com: „4500+ printer drivers” | Fakt |
+| S17 | Loftware Business — shortDescription, zastosowanie; tabela porównawcza | „druk w wielu lokalizacjach”, „w kilku zakładach i magazynach” | „na wielu drukarkach”, „zarządzanych z jednego Control Center”; rola w tabeli „Integracje i zarządzanie drukarkami” | Wiele lokalizacji (multi-site) to cecha edycji Enterprise (Product Range); Business: 3+ drukarek, zarządzanie drukarkami | Fakt |
+| S18 | Kategoria — definicja | „Wszystkie licencje BarTender są sprzedawane w umowach rocznych” (sprzeczne z wariantami 3 i 5 lat) | „Licencje BarTender są subskrypcjami na 1, 3 lub 5 lat” | Pricing FAQ: „all BarTender licenses offer 1-, 3-, and 5-year plans” | Spójność |
+| S19 | Kategoria — poradnik wyboru | Formularze tylko „BarTender Professional albo Loftware Cloud Essentials”; integracje bez Essentials; lista licencji na drukarki bez BarTender Cloud | Formularze: BarTender od Professional i wszystkie plany Cloud, Loftware — proste formularze w każdej edycji, PowerForms od Essentials; Essentials — integracja jednokierunkowa; dopisany BarTender Cloud | Macierz BarTender (Data entry forms), Product Range Loftware (Cloud/Desktop Print Form w Designer), arkusz Loftware | Fakt |
+| S20 | Kategoria — tabela, zastosowania, FAQ | „w wersjach Automation…”, „Formularze”; RFID tylko „od Professional”; „pozycje te są dostępne na kartach produktów”; wstęp tabeli „według producentów”; „w wkładce” | „w planach…”, „Formularze wprowadzania danych”; RFID także we wszystkich planach Cloud; „na kartach edycji, które je mają”; bez notatki o źródle; „we wkładce” | Macierz Cloud: RFID encoding we wszystkich planach; AGENTS.md — bez notatek o źródłach | Fakt / język |
+| S21 | Opisy i FAQ — unikalność między markami | 2 wspólne 6-gramy w `description` (Professional–Business, Starter–Designer), 3 pary w FAQ | Przeredagowane zdania; `porownaj-opisy.py` na obu plikach razem: 0 par w description, shortDescription, seoDescription, faq | Zasada unikalności | Unikalność |
+| S22 | Starter — alt zdjęcia | „motoryzacja, przemysł, life sciences, edukacja” | „motoryzacja, edukacja, life sciences, produkcja” | Na zrzucie: Automotive, Education, Life Sciences, Manufacturing | Alt |
+| S23 | 10 zdjęć BarTender | Grafika 600 × 600 w polu 800 × 800 — na kaflu wyraźnie mniejsza niż `zebra-cardstudio` i `magicard-hub` (wysokość grafiki 75% pola wobec 89% i 92%) | Grafika 720 × 720 w polu 800 × 800 (90% wysokości), z oryginałów 1000 × 1000 producenta (`soft/img-l1/raw`; zgodność z poprzednimi plikami sprawdzona różnicą pikseli ≈ 0). Pole i wymiary pliku bez zmian, `product-image-dims.json` bez zmian | Pomiar na kaflach 299 × 224 (1440 px) i arkusz `shots-audyt-S/arkusz-zdjec-po.png` | Zdjęcia |
+| S24 | `public/llms.txt` | Sekcja oprogramowania bez kart BarTender | 5 wierszy BarTender (PN, model licencji, funkcje), bez cen | Kompletność | Treść |
+
+## Sprawdzone bez zmian
+
+- **Ceny i warianty:** 45 PN z kart — `priceFrom` każdego wariantu = cena z API (drugie wywołanie). Cena „od” kart = najtańsza licencja podstawowa: Starter 751,44, Professional 1129,22 (BTP-WS-SUB-1YR), Automation 2172,20, Cloud 1478,25, Designer 1478,25, Essentials 3055,04; Enterprise i Business — bez ceny.
+- **`czyDodatekLicencji`:** test na wszystkich wariantach (`soft/audyt-s-tools/test-dodatki.mts`) — rozpoznane jako dodatki: BTP-PRT ×2, BTA-PRT ×2, BTE-PRT, BTC-ENT-PRT, NSCDAD001Y, NSCEAO001M, NSCEDB001M, NSCEPH001M, NSCBSA001M; żadna licencja podstawowa nie jest błędnie dodatkiem.
+- **Zawartość SKU:** wszystkie BTS/BTP/BTA/BTE/BTC na kartach potwierdzone dwoma dystrybutorami (edycja, typ, liczba drukarek, okres). NSCDBA001Y, NSCDAD001Y, NSCEBS001M, NSCEAO001M — rok w 2 źródłach. NSCBSM001M/NSCBSA001M — okres sprzeczny (1 miesiąc / rok), karta go nie podaje (poprawnie).
+- Wymagania BarTender 12 i Loftware, 21 języków z polskim, 30-dniowa wersja próbna BarTender, Drivers by Seagull 12 000+ i marki, 72 h bez BLS, 7 dni i 30-dniowy okres przejściowy, Redemption Code → Customer Portal → PKC, Print Gateway, 2/5 GB, 99,99%, SOC Type 2 / ISO 27001, Zebra i TSC bez sterownika, Intelligent Forms tylko w subskrypcji, reprint 7 dni, porty 443/1434 dla drukarek chmurowych Loftware, funkcje edycji Loftware według arkusza.
+- Brak twierdzeń o partnerstwie / resellerze / „autoryzowanym” sprzedawcy, brak cen w treściach i SEO, brak kluczy, brak „Ty” i superlatyw. Marki `bartender`/`loftware` (logo SVG z nagłówków producentów), menu, kategoria `oprogramowanie` (productCount 10 = 5 + 3 + 2), `subcategoryIds` CardStudio i Magicard HUB — poprawne.
+- Wygląd (`npx next start -p 3305`): 11 stron 200; tabele wariantów 8 kart bez poziomego scrolla przy 1440/1280/1024, przy 390 px widok kart i strona bez scrolla; przycisku „Pokaż niedostępne warianty” lokalnie brak (wszystkie warianty dostępne). Tabela porównawcza przy 1024 px przewija się w swoim kontenerze — tak samo jak na stronach wzorcowych (komponent wspólny).
+
+## Otwarte (poza zakresem lub do decyzji)
+
+1. **BTC-PROV** (opłata za utworzenie konta BarTender Cloud wg dystrybutorów, sprzeczna z FAQ producenta „no additional fees”) — do potwierdzenia u dystrybutora przed pierwszą sprzedażą Cloud.
+2. API zwraca ceny także dla SKU spoza kart: BTA-10-SUB-3YR, BTA-20-SUB-3YR, BTP-2-SUB-5YR, BTP-5-SUB-5YR, BTC-10-AUT-SUB-1YR — nie dodano (lista wariantów z briefu koordynatora).
+3. Zdjęcia BTE-3-SUB-1YR(-2) i BTA-2-SUB-1YR-2 pokazują interfejs Workflow Designer / File Drop w wersji webowej (pliki producenta „Cloud…”), choć producent publikuje je na stronach on-premises i What's New 12 — zostawione.
+4. Karta licencji pokazuje pasek „Dostawa darmowa — kurier w cenie od 1000 zł netto” (kod, zakres audytora K).
+5. NSCEDB001M: jeden dystrybutor oznacza pozycję jako wycofaną — sprawdzić u dystrybutora przy pierwszym zamówieniu.
